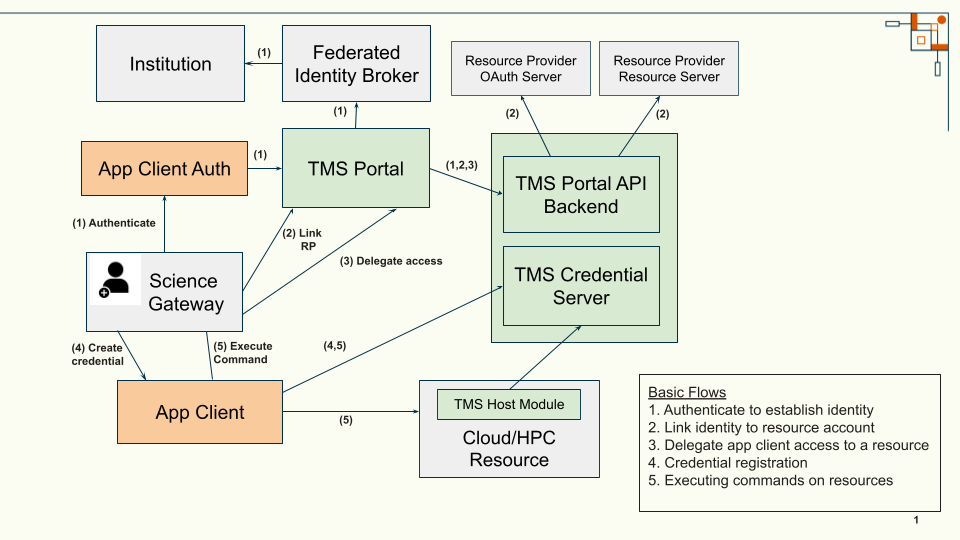
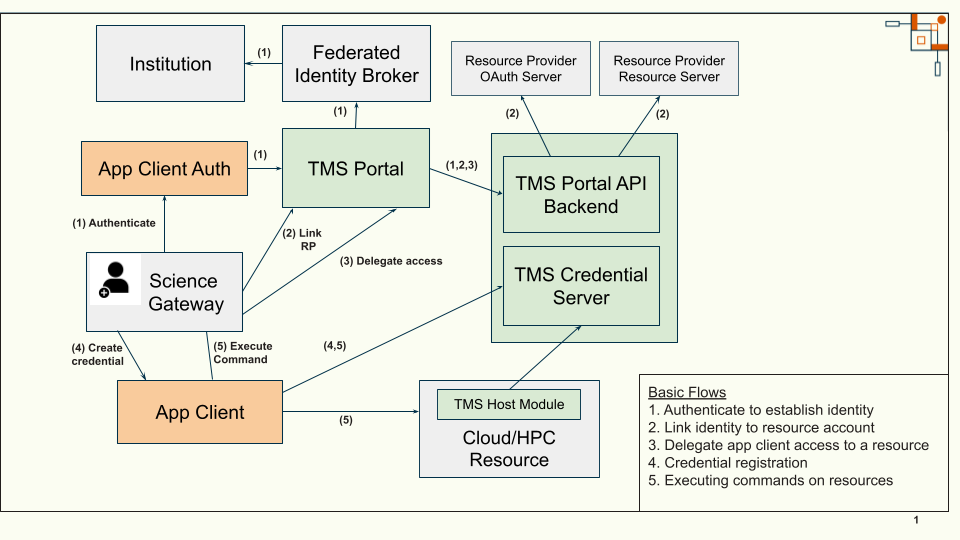
WIP Update for description of full TMS implementation.

diff --git a/source/index.rst b/source/index.rst
@@ -46,7 +46,7 @@ TMS is a multi-tenant web application exposing a REST API to manage SSH keys, cl
 About This Documentation
 ========================
 
-.. note::
+.. warning::
   This documentation is under construction.
 
 This documentation includes:
